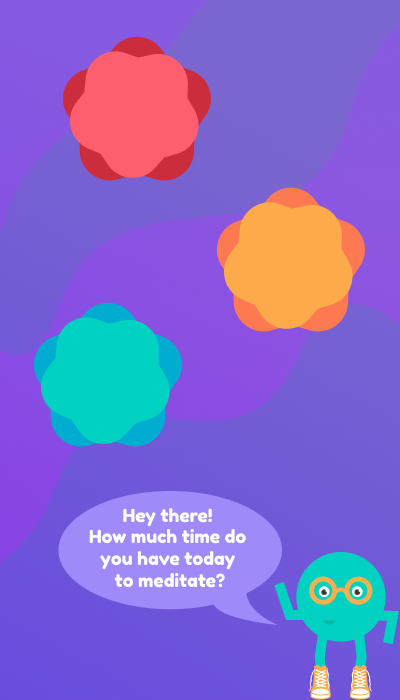
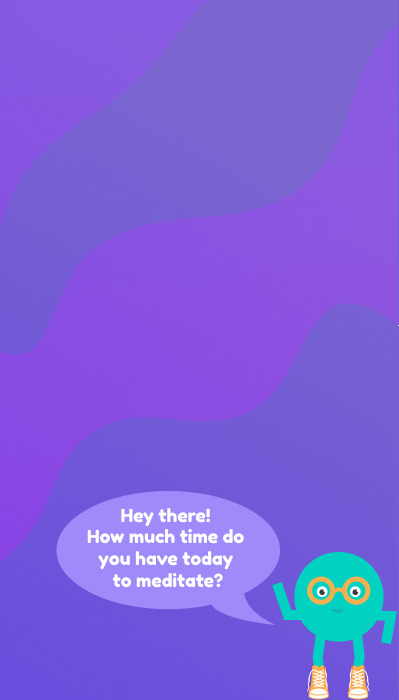
game selection styling revised

diff --git a/client/src/components/gameSelectionScreen.css b/client/src/components/gameSelectionScreen.css
@@ -7,42 +7,59 @@
   text-align: center;
   margin: 0 auto;
   font-family: 'Fredoka One', cursive;
-  color: white
-}
-
-.Time {
-  font-size: 5rem;
+  color: white;
+  display: grid;
+  grid-template-columns: 200px 200px;
+  grid-template-rows: 100px 120px 120px 120px 240px;
 }
 
 .PlayerName {
   font-size: 1.5rem;
-  position: relative;
-  top: -3%;
+  grid-column-start: 1;
+  grid-column-end: end;
+  grid-row: 1;
 }
 
-.Two {
-  line-height: 1.3rem;
+.GameSelectSplash img {
+  width: 200px;
+  height: 200px;
+  z-index: auto; 
   position: relative;
-  left: -16.5%;
-  top: 1.5%;
+  bottom: 40%;
+  left: 5%;
 }
 
-.Five {
-  line-height: 1.3rem;
-  position: relative;
-  left: 22%;
-  top: 14%;
+.GameSelectSplash span {
+  z-index:1;  
 }
 
-.Ten {
-  line-height: 1.3rem;
+.Time {
+  font-size: 5rem;
   position: relative;
-  left: -23.5%;
-  top: 21.5%;
+  bottom: 175%;
+  left: 3%;
 }
 
 .Minutes {
   font-size: 1rem;
+  position: relative;
+  bottom: 195%;
+  left: 3%;
+}
+
+.Two {
+  grid-column: 1;
+  grid-row: 2;
+}
+
+.Five {
+  grid-column: 2;
+  grid-row: 3;
+}
+
+.Ten {
+  grid-column: 1;
+  grid-row: 4;
 }
 
 .exit {
@@ -69,11 +86,14 @@
   color: white;
 }
 
-@media (min-width: 320px) and (max-width: 374px) {
+
+@media (min-width: 320px) and (max-width: 375px) {
   .GameSelectSplash {
     width: 95vw;
-    height: 95vh;
-    background-size: 95%
+    height: 95vh;  
+    background-size: 95%;
+    grid-template-columns: 50% 50%;
+    grid-template-rows: 10% 20% 20% 20% 30%;
   }
 
   .PlayerName {
@@ -82,20 +102,21 @@
 
   .Time {
     font-size: 3.5rem;
+    bottom: 150%;
+  }
+
+  .Minutes {
+    font-size: 0.8rem;
+    bottom: 165%;
+  }
+
+  .GameSelectSplash img {
+    width: 150px;
+    height: 150px;
   }
 
   .Two {
-    top: -1.2%;
-  }
-
-  .Five {
-    width: 100px;
-    left: 57%;
-    top: 10.3%;
-  }
-
-  .Ten {
-    top: 17%;
+    margin-top: 20px;
   }
 
   .exit {
@@ -103,37 +124,35 @@
     height: 32px;
     width: 32px;
   }
-
 }
+
 
 @media (min-width: 375px) and (max-width: 425px) {
   .GameSelectSplash {
     width: 95vw;
-    height: 95vh;
-    background-size: 95%
-  }
-
-  .PlayerName {
-    font-size: 1.4rem;
-    top: 8%;
+    height: 95vh;  
+    background-size: 95%;
+    grid-template-columns: 50% 50%;
+    grid-template-rows: 10% 20% 20% 20% 30%;
   }
 
   .Time {
     font-size: 3.5rem;
+    bottom: 135%;
+  }
+
+  .Minutes {
+    font-size: 0.8rem;
+    bottom: 147%;
+  }
+
+  .GameSelectSplash img {
+    width: 150px;
+    height: 150px;
   }
 
   .Two {
-    top: 10%;
-  }
-
-  .Five {
-    width: 100px;
-    left: 58%;
-    top: 21%;
-  }
-
-  .Ten {
-    top: 27%;
+    margin-top: 20px;
   }
 
   .exit {
@@ -141,5 +160,4 @@
     height: 32px;
     width: 32px;
   }
-
 }

diff --git a/client/src/components/gameSelectionScreen.js b/client/src/components/gameSelectionScreen.js
@@ -12,6 +12,7 @@ const GameSelectionScreen = ({ currentUser, logoff, setGame }) => {
 
       <div className="Two">
         <Link to="/pre-game" onClick={() => setGame(120, 1)}>
+          <img className="red" src="../assets/red.png" alt="red" />
           <span className="Time">2</span>
           <br />
           <span className="Minutes">minutes</span>
@@ -19,6 +20,7 @@ const GameSelectionScreen = ({ currentUser, logoff, setGame }) => {
       </div>
       <div className="Five">
         <Link to="/pre-game" onClick={() => setGame(300, 2)}>
+          <img className="orange" src="../assets/orange.png" alt="orange" />
           <span className="Time">5</span>
           <br />
           <span className="Minutes">minutes</span>
@@ -26,12 +28,13 @@ const GameSelectionScreen = ({ currentUser, logoff, setGame }) => {
       </div>
       <div className="Ten">
         <Link to="/pre-game" onClick={() => setGame(600, 3)}>
+          <img className="green" src="../assets/green.png" alt="green" />
           <span className="Time">10</span>
           <br />
           <span className="Minutes">minutes</span>
         </Link>
       </div>
-      <img className="exit" src="assets/exit_white.svg" onClick={logoff} alt="exit" />
+      {/* <img className="exit" src="assets/exit_white.svg" onClick={logoff} alt="exit" /> */}
     </div>
   );
 };

diff --git a/client/src/components/playerSelectionScreen.css b/client/src/components/playerSelectionScreen.css
@@ -86,7 +86,7 @@
   }
 
   .LogoLogin {
-    height: 35vh;
+    height: 35%;
   }
 
   .LogoLogin img {
@@ -97,5 +97,14 @@
     height: 320px;
   }
 
+  .Form input {
+    height: 50%;
+    width: 95%;
+    text-align: center;
+    font-family: 'Fredoka One';
+    font-size: 1rem;
+    border: 1px solid rgb(180, 180, 180);
+    border-radius: 5px;
+  }
 
 }
